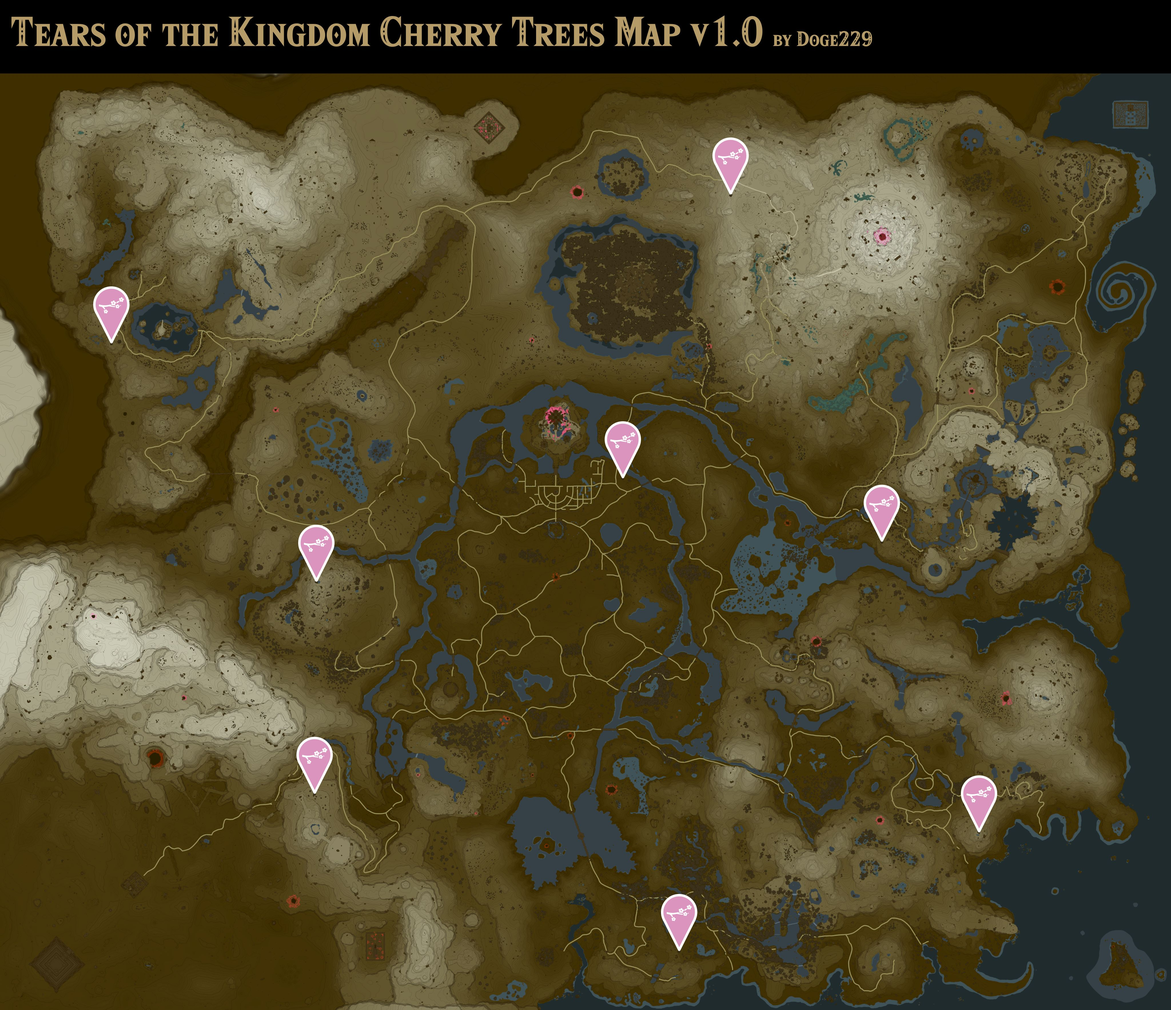
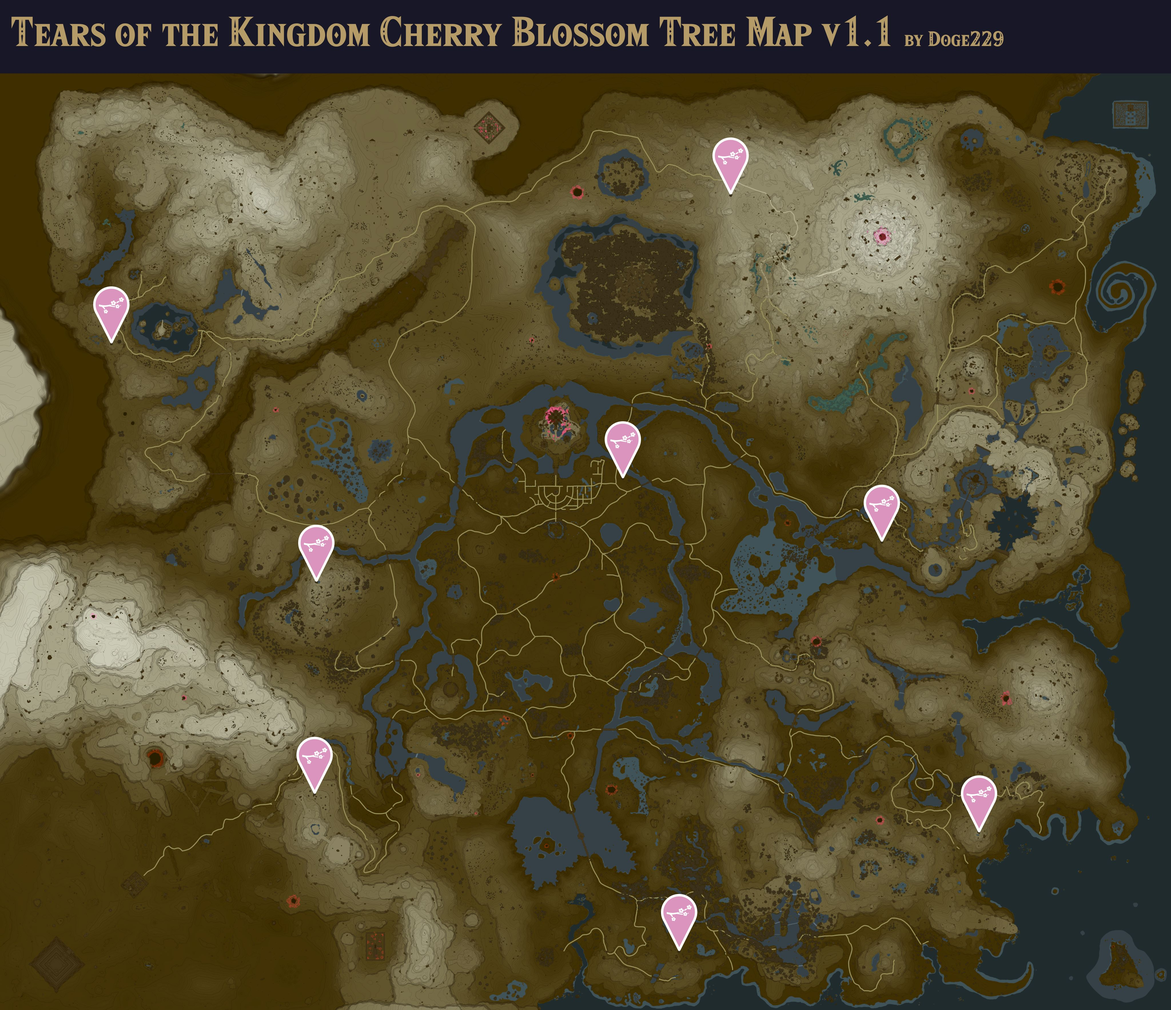
new cherry blossom tree info

Changed region(s): [[0.0, 0.0, 1.0, 0.0934]]

diff --git a/messages.py b/messages.py
@@ -48,9 +48,8 @@ HELP_GENERAL = '''
 Here are some of my commands:
 
 `/help [option]`
-    `[page number]`, `show [page number]`
+    `show`
     -See what commands I have available
-    -*Note: Page number defaults to the 1st page if not specified*
 
 `/tag help`
     -See what options I have for `/tag`
@@ -82,8 +81,7 @@ Here are the options for my `tag` command:
     `help [page number], help show [page number]`
     -*Note: Page number defaults to the 1st page if not specified*
     **General Command Help** (For when `/help` isn't available)
-    `helpgeneral [page number], helpgeneral show [page number]`
-    -*Note: Page number defaults to the 1st page if not specified*
+    `helpgeneral, helpgeneral show
 '''
 
 HELP_GENSERVERTAGS = '''
@@ -110,7 +108,7 @@ HELP_TAG2 = '''
     **Meta Info**
     `dupe1.1.2, dupe1.2.0, dupe1.2.1, downpatch, preventupdates, versioncheck, transferalbum, whereDLC`
     **Reference Images**
-    `horseupgrades, ascendmap, cherrymap, invupgrades, shrinecounts, dmgformula, armortotals, fruitandveggietotals, meattotals, horntotals, gutsandtailtotals, otherparttotals, oretotals, zonaitotals, dragontotals`
+    `horseupgrades, ascendmap, cherrymap, cherryareamap, invupgrades, shrinecounts, dmgformula, armortotals, fruitandveggietotals, meattotals, horntotals, gutsandtailtotals, otherparttotals, oretotals, zonaitotals, dragontotals`
 Page 2 of 2
 '''
 
@@ -388,7 +386,7 @@ Note: If you imported a unique horse from botw, then it will not spawn in the wi
 -Epona - Spawns from scanning the Super Smash Bros. Link and Twilight Princess Link Amiibo.
 '''
 
-INFO_CHERRYTREE = '''If you are having trouble finding caves, try offering some fruit to a cherry tree. Doing so will reveal ALL cave entrances nearby for 24 minutes of unpaused gameplay, although towards the end of this time period the markers will become very faint.'''
+INFO_CHERRYTREE = '''If you are having trouble finding caves, try offering some fruit to a cherry blossom tree. Doing so will reveal ALL Surface cave entrances (aside from Ancient Zora Waterworks) in the surrounding area of the map for 24 minutes of unpaused gameplay, although towards the end of this time period the markers will become very faint. These markers will not disappear early if you save and reload, but will disappear if you close the game and re-open it.'''
 INFO_DEPTHSMIRROR = '''
 Hyrule's Depths mirror its Surface; Terrain elevation is usually inverted, and bodies of water on the Surface are almost always impassable walls in the Depths. 
 If you are in an area of the Depths and you do not have the map for it yet, try opening your Surface map and then closing it. This will display the Surface on your minimap, aiding in navigation.
@@ -863,7 +861,8 @@ IMAGE_OTHERPARTTOTAL = '''Here are the totals for Other Monster Parts required t
 IMAGE_CRITTERTOTAL = '''Here are the totals for Critters required to upgrade every armor in TotK:'''
 
 IMAGE_ASCENDMAP = '''Here is a map of all the Ascend Points within the Depths:'''
-IMAGE_CHERRYMAP = '''Here is a map of all the Cherry Trees in TotK:'''
+IMAGE_CHERRYMAP = '''Here is a map of all the Cherry Blossom Trees in TotK:'''
+IMAGE_CHERRYAREAMAP = '''Here is a map of all the Cherry Blossom Tree Areas in TotK:'''
 IMAGE_INVENTORYUPGRADES = '''Here are all of the Inventory upgrade costs for TotK:'''
 IMAGE_SHRINECOUNTS = '''Here are the totals of each type of Shrine of Light in TotK:'''
 IMAGE_HORSEUPGRADE = '''Here are the meals needed to upgrade a horse to maximum in TotK:'''

diff --git a/cogs/tag.py b/cogs/tag.py
@@ -675,6 +675,9 @@ class Tag(commands.Cog):
             case 'cherrymap':
                 ANSWER = messages.IMAGE_CHERRYMAP
                 IMAGE = discord.File(os.path.join(system.DIR_RESOURCE, 'cherrymap.jpg'))
+            case 'cherryareamap':
+                ANSWER = messages.IMAGE_CHERRYAREAMAP
+                IMAGE = discord.File(os.path.join(system.DIR_RESOURCE, 'SPOILER_cherryareamap.jpg'))
             case 'invupgrade':
                 ANSWER = messages.IMAGE_INVENTORYUPGRADES
                 IMAGE = discord.File(os.path.join(system.DIR_RESOURCE, 'inventoryupgrades.jpg'))
